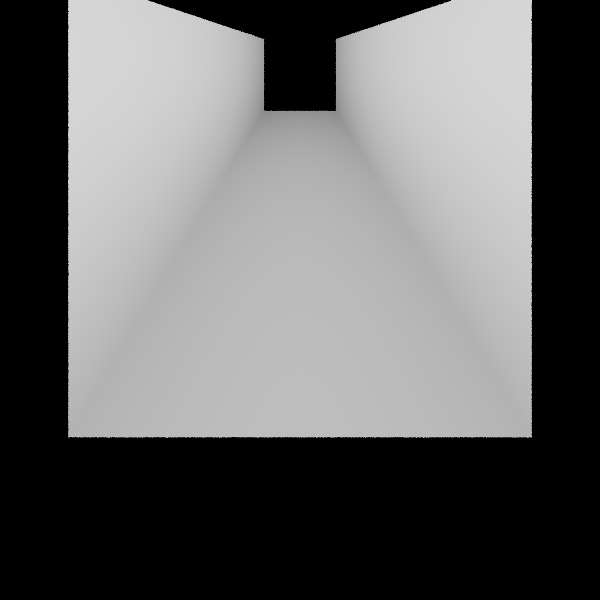
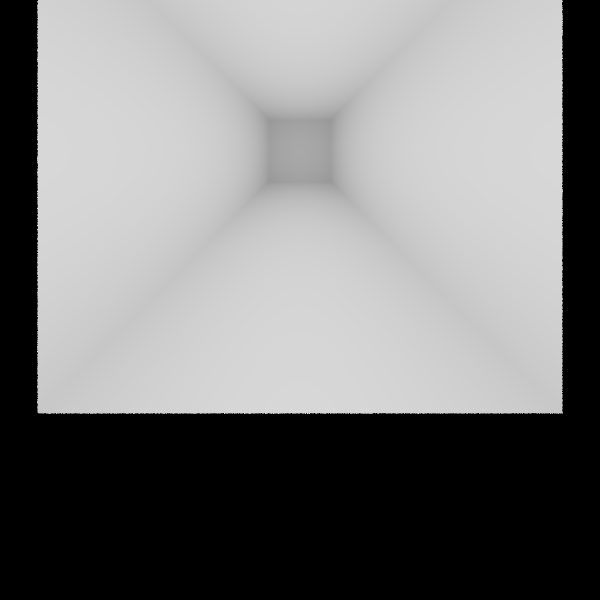
Add empty cornell box

Changed region(s): [[0.06, 0.0, 0.96, 0.75], [0.24, 0.0, 0.75, 0.42]]

diff --git a/rusterize/src/scene/mod.rs b/rusterize/src/scene/mod.rs
@@ -47,6 +47,31 @@ impl Scene {
             Vec3::new(-150.0, 300.0, 300.0),
             Vec3::new(-150.0, 300.0, 0.0),
         ));
+
+        // Ceiling
+        vec.push(Triangle::new(
+            Vec3::new(-150.0, 300.0, 0.0),
+            Vec3::new(-150.0, 300.0, 300.0),
+            Vec3::new(150.0, 300.0, 300.0),
+        ));
+        vec.push(Triangle::new(
+            Vec3::new(-150.0, 300.0, 0.0),
+            Vec3::new(150.0, 300.0, 300.0),
+            Vec3::new(150.0, 300.0, 0.0),
+        ));
+
+        // Back wall
+        vec.push(Triangle::new(
+            Vec3::new(-150.0, 0.0, 300.0),
+            Vec3::new(150.0, 0.0, 300.0),
+            Vec3::new(-150.0, 300.0, 300.0),
+        ));
+        vec.push(Triangle::new(
+            Vec3::new(150.0, 0.0, 300.0),
+            Vec3::new(-150.0, 300.0, 300.0),
+            Vec3::new(150.0, 300.0, 300.0),
+        ));
+
         Scene {
             triangles: vec,
             samples_per_pixel: spp,

diff --git a/rusterize/src/renderer/raytracer.rs b/rusterize/src/renderer/raytracer.rs
@@ -1,6 +1,6 @@
 use crate::math::vectors::Vec3;
 use crate::math::vectors::VectorMath;
-use crate::renderer::integrators;
+use crate::renderer::integrators::depth_integrator;
 use crate::renderer::renderstructs::IntersectionRecord;
 use crate::renderer::renderstructs::PerspectiveCamera;
 use crate::scene::Scene;
@@ -26,7 +26,7 @@ pub fn render_scene(scene: &Scene, cam: &mut PerspectiveCamera) {
                 let camera_sample = cam.sample_pixel(x, y, &mut rng);
                 let ray = cam.generate_ray(camera_sample);
 
-                let L_i = integrators::depth_integrator(&scene, &cam, &ray, &mut rng);
+                let L_i = depth_integrator::integrate(&scene, &cam, &ray, &mut rng);
 
                 pixel_buffer.push(L_i);
                 let acc_pixel_buffer: Vec3 = pixel_buffer.iter().sum();

diff --git a/rusterize/src/renderer/integrators/mod.rs b/rusterize/src/renderer/integrators/mod.rs
@@ -1,26 +1,2 @@
-use crate::math::vectors::Vec3;
-use crate::math::vectors::VectorMath;
-use crate::renderer::renderstructs::IntersectionRecord;
-use crate::renderer::renderstructs::PerspectiveCamera;
-use crate::renderer::renderstructs::Ray;
-use crate::scene::Scene;
-
-extern crate rand as rnd;
-use rnd::rngs::ThreadRng;
-
-pub fn depth_integrator(
-    scene: &Scene,
-    cam: &PerspectiveCamera,
-    ray: &Ray,
-    rng: &mut ThreadRng,
-) -> Vec3 {
-    let mut L_i: Vec3 = Vec3::empty();
-
-    let mut i_rec = IntersectionRecord::new();
-
-    if scene.intersect(&ray, &mut i_rec) {
-        let d = 1_f32 - (i_rec.distance / ray.max_dist);
-        L_i = L_i.add(&Vec3::new(d, d, d));
-    }
-    L_i
-}
+pub mod depth_integrator;
+pub mod normal_integrator;

diff --git a/rusterize/src/renderer/integrators/depth_integrator.rs b/rusterize/src/renderer/integrators/depth_integrator.rs
@@ -1,0 +1,21 @@
+use crate::math::vectors::Vec3;
+use crate::math::vectors::VectorMath;
+use crate::renderer::renderstructs::IntersectionRecord;
+use crate::renderer::renderstructs::PerspectiveCamera;
+use crate::renderer::renderstructs::Ray;
+use crate::scene::Scene;
+
+extern crate rand as rnd;
+use rnd::rngs::ThreadRng;
+
+pub fn integrate(scene: &Scene, cam: &PerspectiveCamera, ray: &Ray, rng: &mut ThreadRng) -> Vec3 {
+    let mut L_i: Vec3 = Vec3::empty();
+
+    let mut i_rec = IntersectionRecord::new();
+
+    if scene.intersect(&ray, &mut i_rec) {
+        let d = 1_f32 - (i_rec.distance / ray.max_dist);
+        L_i = L_i.add(&Vec3::new(d, d, d));
+    }
+    L_i
+}

diff --git a/rusterize/src/main.rs b/rusterize/src/main.rs
@@ -41,7 +41,7 @@ fn main() {
     let scene = Scene::cornel_box(5);
     let mut cam = PerspectiveCamera::new(
         Vec3::new(0.0, 0.0, 1.0),
-        Vec3::new(0.0, 250.0, -55.0),
+        Vec3::new(0.0, 150.0, -40.0),
         Vec3::new(0.0, 1.0, 0.0),
         30.0,
         width,
